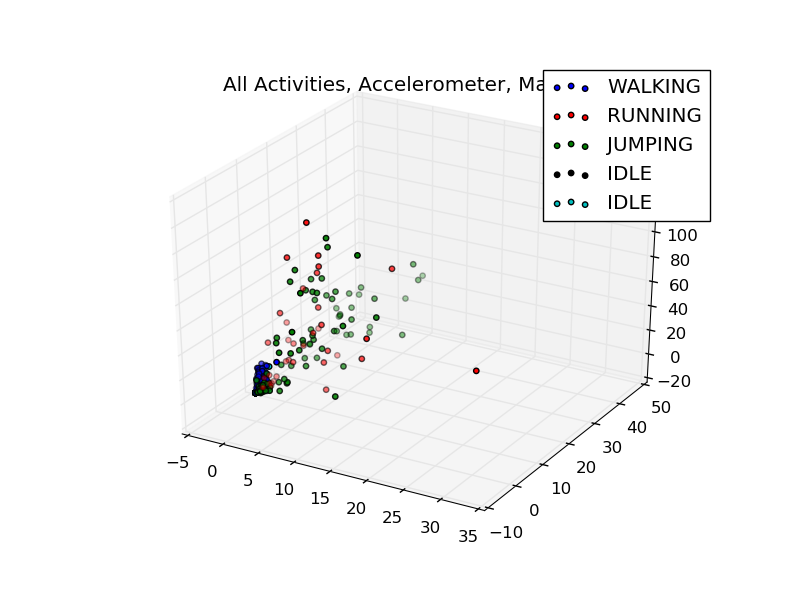
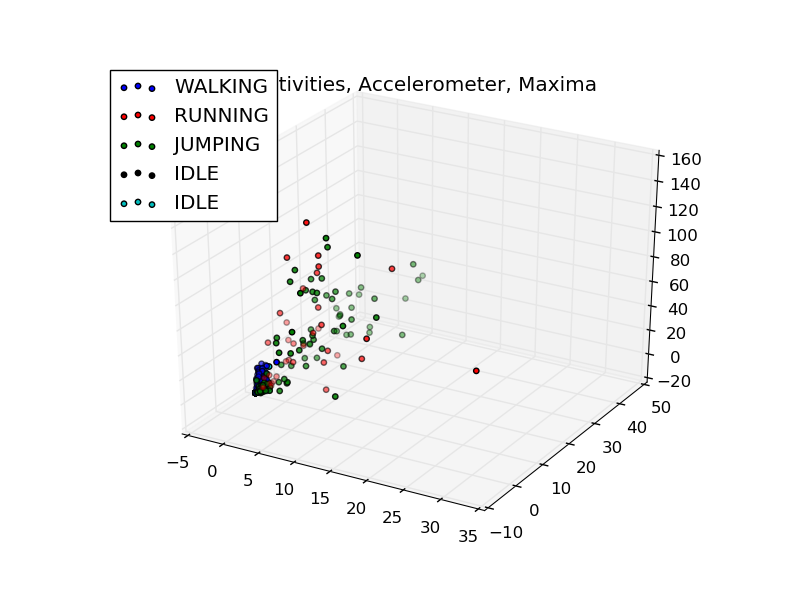
graphs with names and legends

Changed region(s): [[0.6562, 0.09, 0.9062, 0.39], [0.125, 0.09, 0.375, 0.39]]

diff --git a/analysis/graphs.py b/analysis/graphs.py
@@ -90,7 +90,7 @@ for activity in datafile:
                 light = np.append(light, float(col))
             colnum += 1
         rownum += 1
-    all_activities.append(zip(*sliced_data))
+    all_activities.append(zip(*sliced_data)) #transpose
     sliced_data = []
 
 analyzed_data = []
@@ -102,9 +102,9 @@ for activity in all_activities:
             means = np.append(means, np.mean(elem))
             variances = np.append(variances, np.var(elem))
             try:
-		maxes = np.append(maxes, np.max(elem))
+		      maxes = np.append(maxes, np.max(elem))
             except ValueError: #if elem is empty
-		pass
+		      pass
             zero_crossings = np.append(zero_crossings, np.prod(np.where(np.diff(np.sign(elem)))[0].shape))
         analyzed_data.append([medians, means, variances, maxes, zero_crossings])
         medians = np.array([])
@@ -115,6 +115,25 @@ for activity in all_activities:
     plotit.append(analyzed_data)
     analyzed_data = []
     
+# plotit[activity][sensorcol][feature]
+# activity:
+#       0: walking
+#       1: running
+#       2: jumping
+#       3: idle
+#       4: stairs
+# sensorcol:
+#       0-2: accelerometer (x,y,z)
+#       3-5: gyroscope (x,y,z)
+#       6-8: magnetometer (x,y,z)
+#       9: light sensor
+# feature:
+#       0: means
+#       1: medians
+#       2: maxima
+#       3: variances
+#
+#
 
 fig1 = plt.figure()
 ax = fig1.add_subplot(111, projection='3d')
@@ -123,7 +142,7 @@ ax.scatter(plotit[1][0][0], plotit[1][1][0], plotit[1][2][0], zdir='z', s=15, c=
 ax.scatter(plotit[2][0][0], plotit[2][1][0], plotit[2][2][0], zdir='z', s=15, c='g', label=activity_names[2])
 ax.scatter(plotit[3][0][0], plotit[3][1][0], plotit[3][2][0], zdir='z', s=15, c='k', label=activity_names[3])
 ax.scatter(plotit[4][0][0], plotit[4][1][0], plotit[4][2][0], zdir='z', s=15, c='c', label=activity_names[4])
-ax.legend(loc='upper right')
+ax.legend(loc='upper left', prop={'size':6})
 ax.set_title('All Activities, Accelerometer, Means')
 plt.savefig('plots/accelerometer_means.png')
 plt.show()
@@ -135,10 +154,10 @@ bx.scatter(plotit[1][0][1], plotit[1][1][1], plotit[1][2][1], zdir='z', s=15, c=
 bx.scatter(plotit[2][0][1], plotit[2][1][1], plotit[2][2][1], zdir='z', s=15, c='g', label=activity_names[2])
 bx.scatter(plotit[3][0][1], plotit[3][1][1], plotit[3][2][1], zdir='z', s=15, c='k', label=activity_names[3])
 bx.scatter(plotit[4][0][1], plotit[4][1][1], plotit[4][2][1], zdir='z', s=15, c='c', label=activity_names[4])
-bx.legend(loc='upper right')
+bx.legend(loc='upper left')
 bx.set_title('All Activities, Accelerometer, Medians')
 plt.savefig('plots/accelerometer_medians.png')
-plt.show()
+#plt.show()
 
 fig3 = plt.figure()
 cx = fig3.add_subplot(111, projection='3d')
@@ -147,10 +166,10 @@ cx.scatter(plotit[1][0][2], plotit[1][1][2], plotit[1][2][2], zdir='z', s=15, c=
 cx.scatter(plotit[2][0][2], plotit[2][1][2], plotit[2][2][2], zdir='z', s=15, c='g', label=activity_names[2])
 cx.scatter(plotit[3][0][2], plotit[3][1][2], plotit[3][2][2], zdir='z', s=15, c='k', label=activity_names[3])
 cx.scatter(plotit[4][0][2], plotit[4][1][2], plotit[4][2][2], zdir='z', s=15, c='c', label=activity_names[3])
-cx.legend(loc='upper right')
+cx.legend(loc='upper left')
 cx.set_title('All Activities, Accelerometer, Maxima')
 plt.savefig('plots/accelerometer_maxima.png')
-plt.show()
+#plt.show()
 
 fig4 = plt.figure()
 dx = fig4.add_subplot(111, projection='3d')
@@ -159,8 +178,105 @@ dx.scatter(plotit[1][0][3], plotit[1][1][3], plotit[1][2][3], zdir='z', s=15, c=
 dx.scatter(plotit[2][0][3], plotit[2][1][3], plotit[2][2][3], zdir='z', s=15, c='g', label=activity_names[2])
 dx.scatter(plotit[3][0][3], plotit[3][1][3], plotit[3][2][3], zdir='z', s=15, c='k', label=activity_names[3])
 dx.scatter(plotit[4][0][3], plotit[4][1][3], plotit[4][2][3], zdir='z', s=15, c='c', label=activity_names[4])
-dx.legend(loc='upper right')
+dx.legend(loc='upper left')
 dx.set_title('All Activities, Acceleromenter, Variances')
-plt.savefig('plots/fig4.png')
-plt.show()
+plt.savefig('plots/accelerometer_variances.png')
+#plt.show()
 
+fig5 = plt.figure()
+ex = fig5.add_subplot(111, projection='3d')
+ex.scatter(plotit[0][3][0], plotit[0][4][0], plotit[0][5][0], zdir='z', s=15, c='b', label=activity_names[0])
+ex.scatter(plotit[1][3][0], plotit[1][4][0], plotit[1][5][0], zdir='z', s=15, c='r', label=activity_names[1])
+ex.scatter(plotit[2][3][0], plotit[2][4][0], plotit[2][5][0], zdir='z', s=15, c='g', label=activity_names[2])
+ex.scatter(plotit[3][3][0], plotit[3][4][0], plotit[3][5][0], zdir='z', s=15, c='k', label=activity_names[3])
+ex.scatter(plotit[4][3][0], plotit[4][4][0], plotit[4][5][0], zdir='z', s=15, c='c', label=activity_names[4])
+ex.legend(loc='upper left')
+ex.set_title('All Activities, Gyroscope, Means')
+plt.savefig('plots/gyro_means.png')
+#plt.show()
+
+fig6 = plt.figure()
+fx = fig6.add_subplot(111, projection='3d')
+fx.scatter(plotit[0][3][1], plotit[0][4][1], plotit[0][5][1], zdir='z', s=15, c='b', label=activity_names[0])
+fx.scatter(plotit[1][3][1], plotit[1][4][1], plotit[1][5][1], zdir='z', s=15, c='r', label=activity_names[1])
+fx.scatter(plotit[2][3][1], plotit[2][4][1], plotit[2][5][1], zdir='z', s=15, c='g', label=activity_names[2])
+fx.scatter(plotit[3][3][1], plotit[3][4][1], plotit[3][5][1], zdir='z', s=15, c='k', label=activity_names[3])
+fx.scatter(plotit[4][3][1], plotit[4][4][1], plotit[4][5][1], zdir='z', s=15, c='c', label=activity_names[4])
+fx.legend(loc='upper left')
+fx.set_title('All Activities, Gyroscope, Medians')
+plt.savefig('plots/gyro_medians.png')
+#plt.show()
+
+fig7 = plt.figure()
+gx = fig7.add_subplot(111, projection='3d')
+gx.scatter(plotit[0][3][2], plotit[0][4][2], plotit[0][5][2], zdir='z', s=15, c='b', label=activity_names[0])
+gx.scatter(plotit[1][3][2], plotit[1][4][2], plotit[1][5][2], zdir='z', s=15, c='r', label=activity_names[1])
+gx.scatter(plotit[2][3][2], plotit[2][4][2], plotit[2][5][2], zdir='z', s=15, c='g', label=activity_names[2])
+gx.scatter(plotit[3][3][2], plotit[3][4][2], plotit[3][5][2], zdir='z', s=15, c='k', label=activity_names[3])
+gx.scatter(plotit[4][3][2], plotit[4][4][2], plotit[4][5][2], zdir='z', s=15, c='c', label=activity_names[4])
+gx.legend(loc='upper left')
+gx.set_title('All Activities, Gyroscope, Maxima')
+plt.savefig('plots/gyro_maxima.png')
+#plt.show()
+
+fig8 = plt.figure()
+hx = fig8.add_subplot(111, projection='3d')
+hx.scatter(plotit[0][3][3], plotit[0][4][3], plotit[0][5][3], zdir='z', s=15, c='b', label=activity_names[0])
+hx.scatter(plotit[1][3][3], plotit[1][4][3], plotit[1][5][3], zdir='z', s=15, c='r', label=activity_names[1])
+hx.scatter(plotit[2][3][3], plotit[2][4][3], plotit[2][5][3], zdir='z', s=15, c='g', label=activity_names[2])
+hx.scatter(plotit[3][3][3], plotit[3][4][3], plotit[3][5][3], zdir='z', s=15, c='k', label=activity_names[3])
+hx.scatter(plotit[4][3][3], plotit[4][4][3], plotit[4][5][3], zdir='z', s=15, c='c', label=activity_names[4])
+hx.legend(loc='upper left')
+hx.set_title('All Activities, Gyroscope, Variances')
+plt.savefig('plots/gyro_variances.png')
+#plt.show()
+
+fig9 = plt.figure()
+ix = fig9.add_subplot(111, projection='3d')
+ix.scatter(plotit[0][6][0], plotit[0][7][0], plotit[0][8][0], zdir='z', s=15, c='b', label=activity_names[0])
+ix.scatter(plotit[1][6][0], plotit[1][7][0], plotit[1][8][0], zdir='z', s=15, c='r', label=activity_names[1])
+ix.scatter(plotit[2][6][0], plotit[2][7][0], plotit[2][8][0], zdir='z', s=15, c='g', label=activity_names[2])
+ix.scatter(plotit[3][6][0], plotit[3][7][0], plotit[3][8][0], zdir='z', s=15, c='k', label=activity_names[3])
+ix.scatter(plotit[4][6][0], plotit[4][7][0], plotit[4][8][0], zdir='z', s=15, c='c', label=activity_names[4])
+ix.legend(loc='upper left')
+ix.set_title('All Activities, Magnetometer, Means')
+plt.savefig('plots/magnetometer_means.png')
+#plt.show()
+
+fig10 = plt.figure()
+jx = fig10.add_subplot(111, projection='3d')
+jx.scatter(plotit[0][6][1], plotit[0][7][1], plotit[0][8][1], zdir='z', s=15, c='b', label=activity_names[0])
+jx.scatter(plotit[1][6][1], plotit[1][7][1], plotit[1][8][1], zdir='z', s=15, c='r', label=activity_names[1])
+jx.scatter(plotit[2][6][1], plotit[2][7][1], plotit[2][8][1], zdir='z', s=15, c='g', label=activity_names[2])
+jx.scatter(plotit[3][6][1], plotit[3][7][1], plotit[3][8][1], zdir='z', s=15, c='k', label=activity_names[3])
+jx.scatter(plotit[4][6][1], plotit[4][7][1], plotit[4][8][1], zdir='z', s=15, c='c', label=activity_names[4])
+jx.legend(loc='upper left')
+jx.set_title('All Activities, Magnetometer, Medians')
+plt.savefig('plots/magnetometer_medians.png')
+#plt.show()
+
+fig11 = plt.figure()
+kx = fig11.add_subplot(111, projection='3d')
+kx.scatter(plotit[0][6][2], plotit[0][7][2], plotit[0][8][2], zdir='z', s=15, c='b', label=activity_names[0])
+kx.scatter(plotit[1][6][2], plotit[1][7][2], plotit[1][8][2], zdir='z', s=15, c='r', label=activity_names[1])
+kx.scatter(plotit[2][6][2], plotit[2][7][2], plotit[2][8][2], zdir='z', s=15, c='g', label=activity_names[2])
+kx.scatter(plotit[3][6][2], plotit[3][7][2], plotit[3][8][2], zdir='z', s=15, c='k', label=activity_names[3])
+kx.scatter(plotit[4][6][2], plotit[4][7][2], plotit[4][8][2], zdir='z', s=15, c='c', label=activity_names[4])
+kx.legend(loc='upper left')
+kx.set_title('All Activities, Magnetometer, Maxima')
+plt.savefig('plots/magnetometer_maxima.png')
+#plt.show()
+
+fig12 = plt.figure()
+lx = fig12.add_subplot(111, projection='3d')
+lx.scatter(plotit[0][6][3], plotit[0][7][3], plotit[0][8][3], zdir='z', s=15, c='b', label=activity_names[0])
+lx.scatter(plotit[1][6][3], plotit[1][7][3], plotit[1][8][3], zdir='z', s=15, c='r', label=activity_names[1])
+lx.scatter(plotit[2][6][3], plotit[2][7][3], plotit[2][8][3], zdir='z', s=15, c='g', label=activity_names[2])
+lx.scatter(plotit[3][6][3], plotit[3][7][3], plotit[3][8][3], zdir='z', s=15, c='k', label=activity_names[3])
+lx.scatter(plotit[4][6][3], plotit[4][7][3], plotit[4][8][3], zdir='z', s=15, c='c', label=activity_names[4])
+lx.legend(loc='upper left')
+lx.set_title('All Activities, Magnetometer, Variances')
+plt.savefig('plots/magnetometer_variances.png')
+#plt.show()
+
+#todo: plot light sensor data
